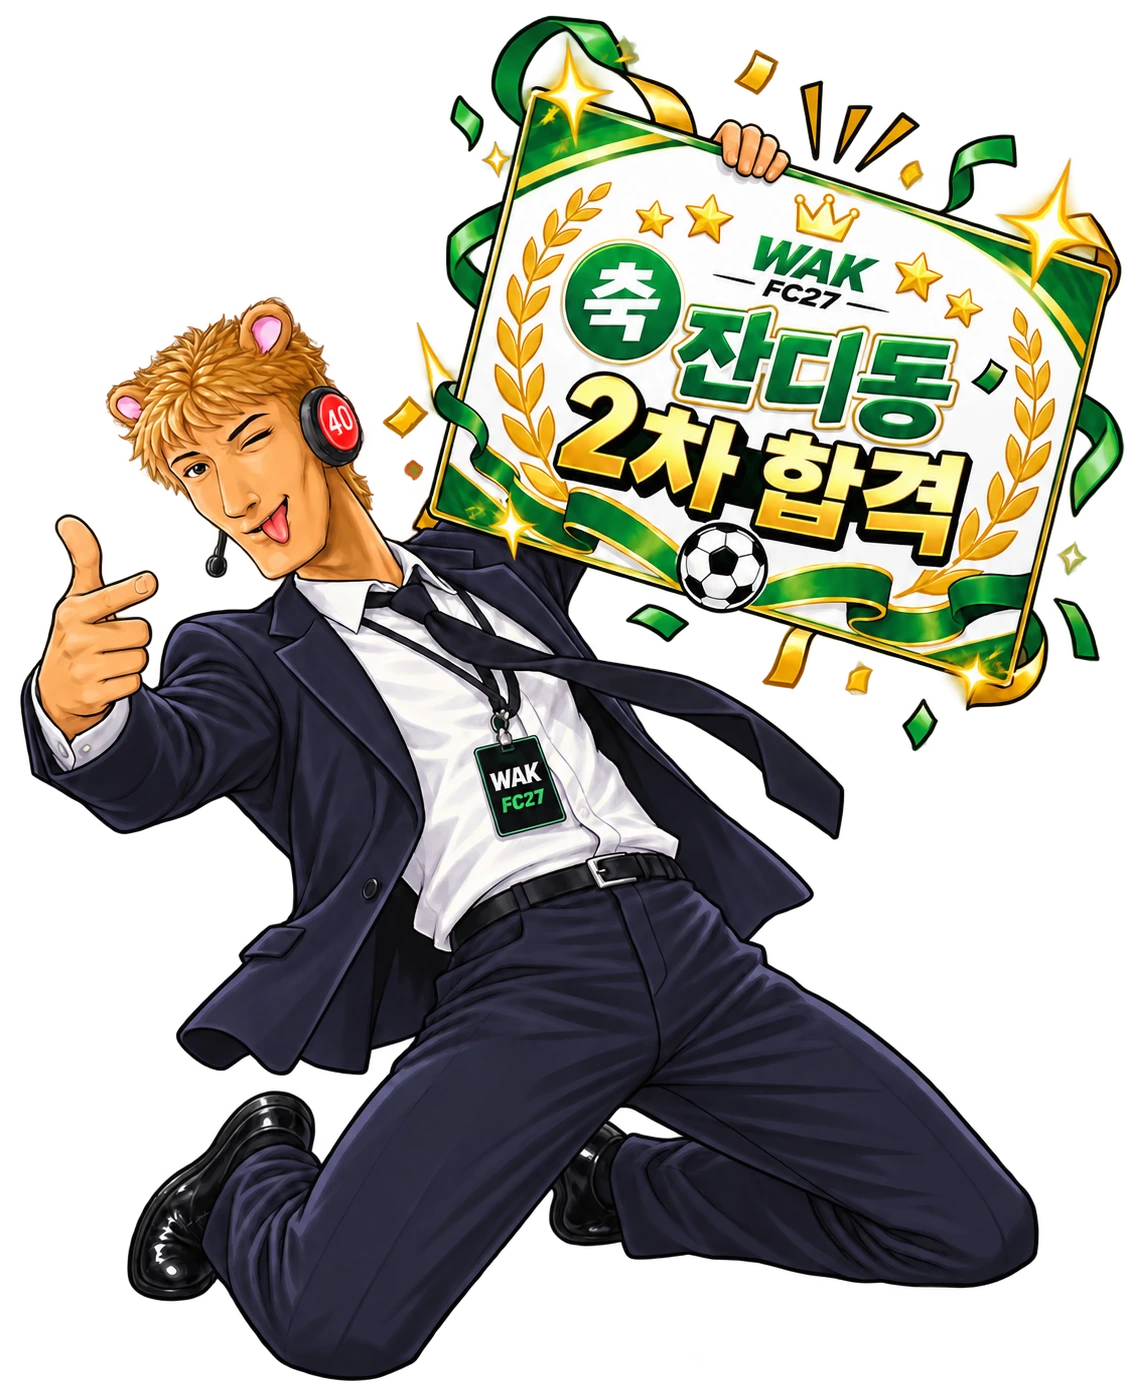
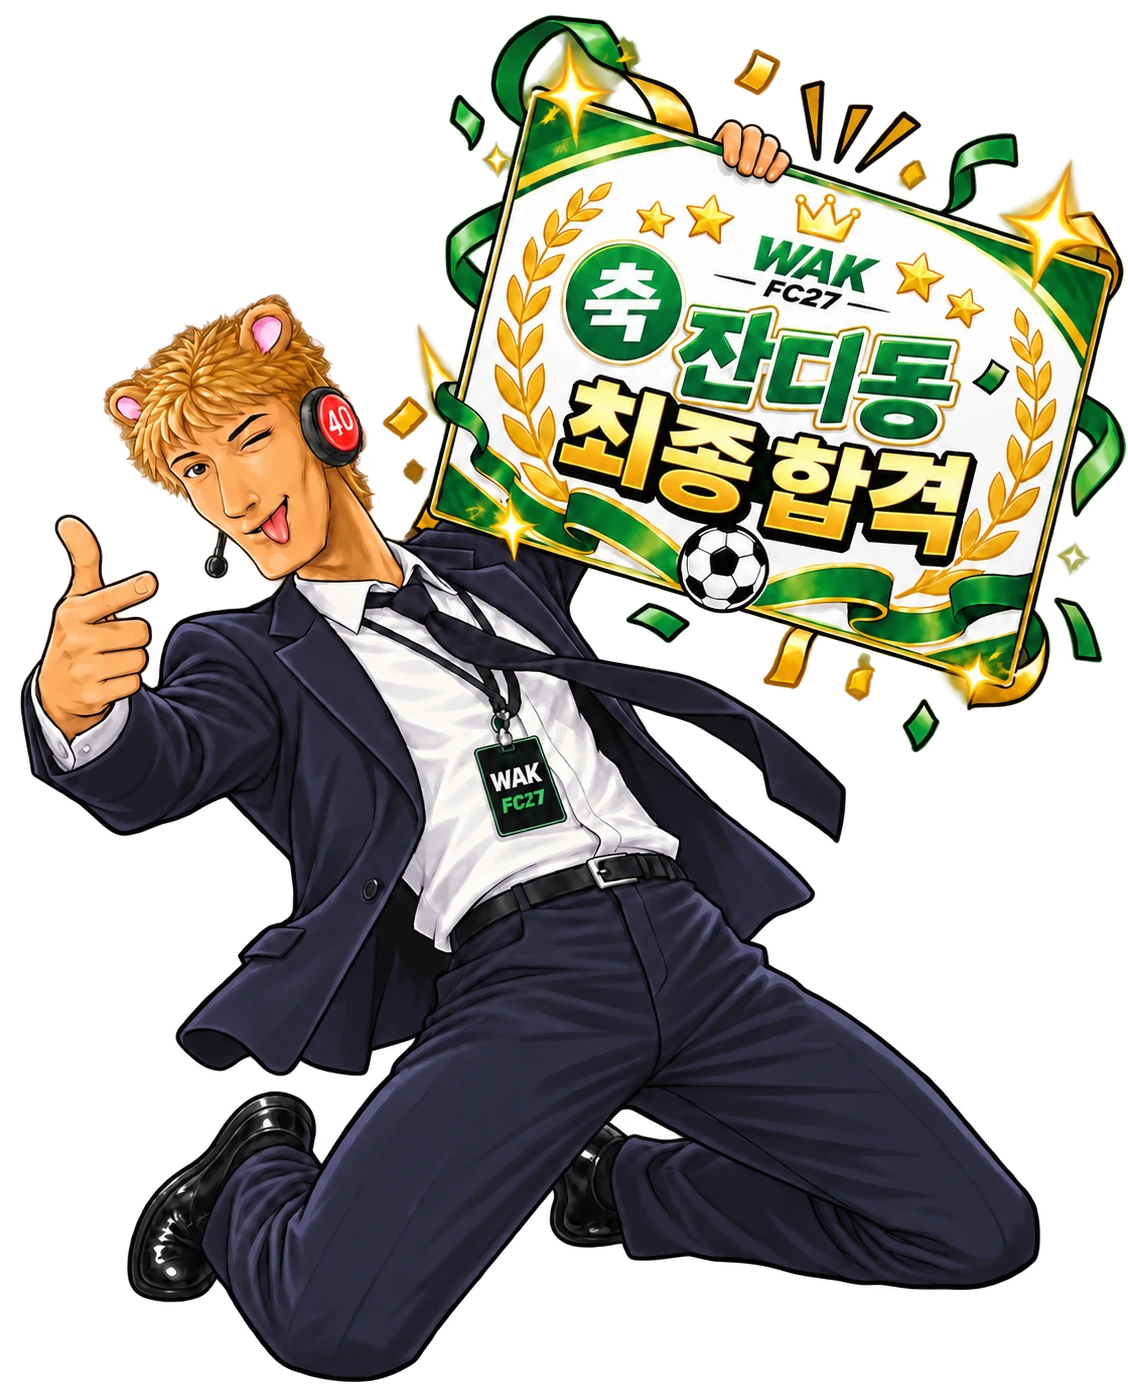
feat: change 2nd round to final

diff --git a/src/web/useLatestActivity.ts b/src/web/useLatestActivity.ts
@@ -4,7 +4,9 @@ import { fancyTierOf } from "./cardVisuals";
 import { DAY_MS } from "./storage";
 
 export function celebrationMessageFor(displayName: string, round: 1 | 2 = 1) {
-  return `${displayName}의 잔디동 ${round}차 합격을 축하합니다!!`;
+  // 2차 합격이 곧 최종 합격으로 개편되어, round 2는 "2차" 대신 "최종"으로 표기한다.
+  const roundLabel = round === 2 ? "최종" : `${round}차`;
+  return `${displayName}의 잔디동 ${roundLabel} 합격을 축하합니다!!`;
 }
 
 /** Once anyone has passedSecondRound, everything 2차-aware (celebration banner,

diff --git a/src/web/ViewToolbar.tsx b/src/web/ViewToolbar.tsx
@@ -58,7 +58,7 @@ export function ViewToolbar({
               <BadgeCheck aria-hidden="true" />
               <div>
                 <strong>{divisionStats.secondRoundTotal}</strong>
-                <span>총 2차 합격자</span>
+                <span>총 최종 합격자</span>
               </div>
             </div>
           )}
